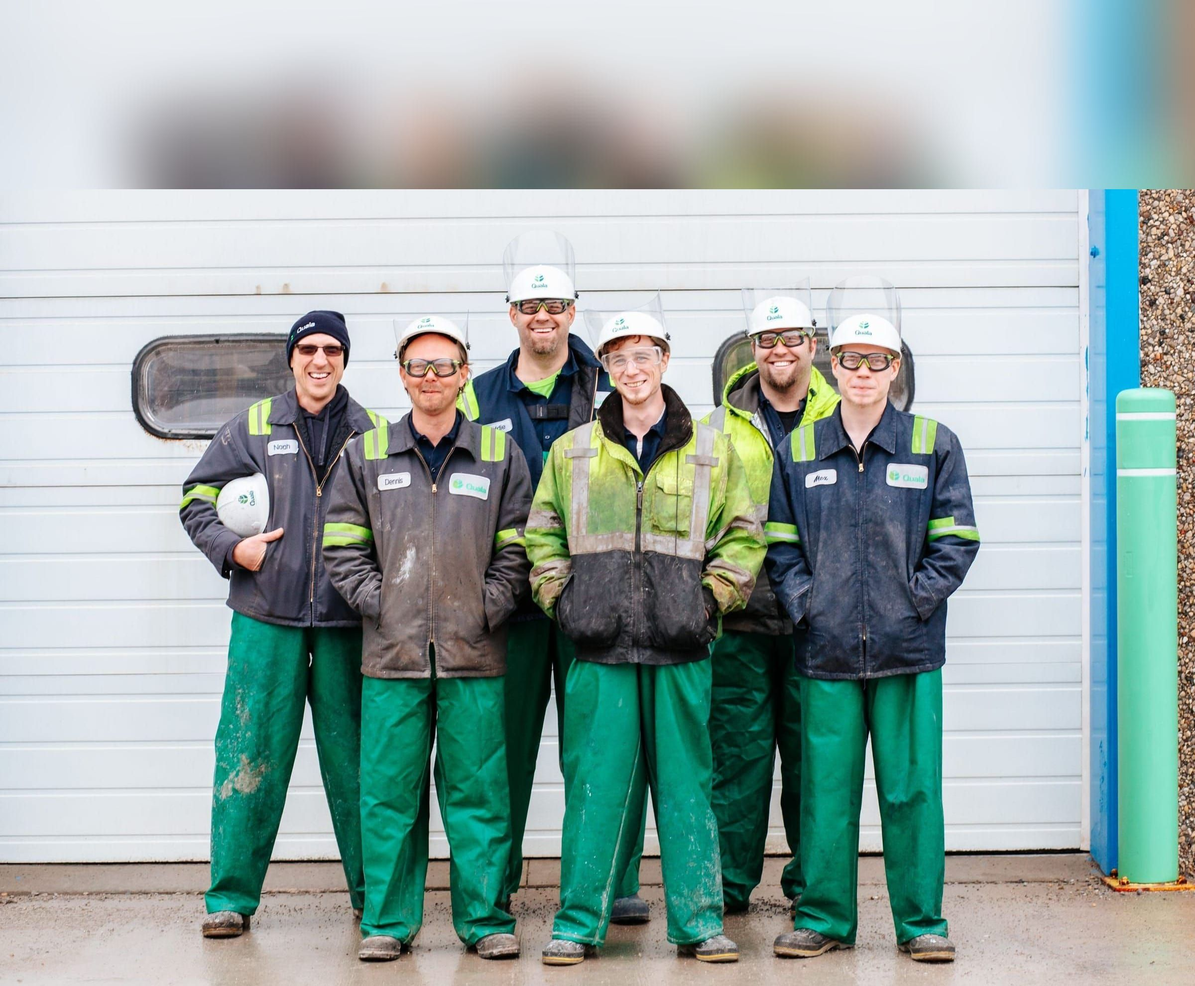
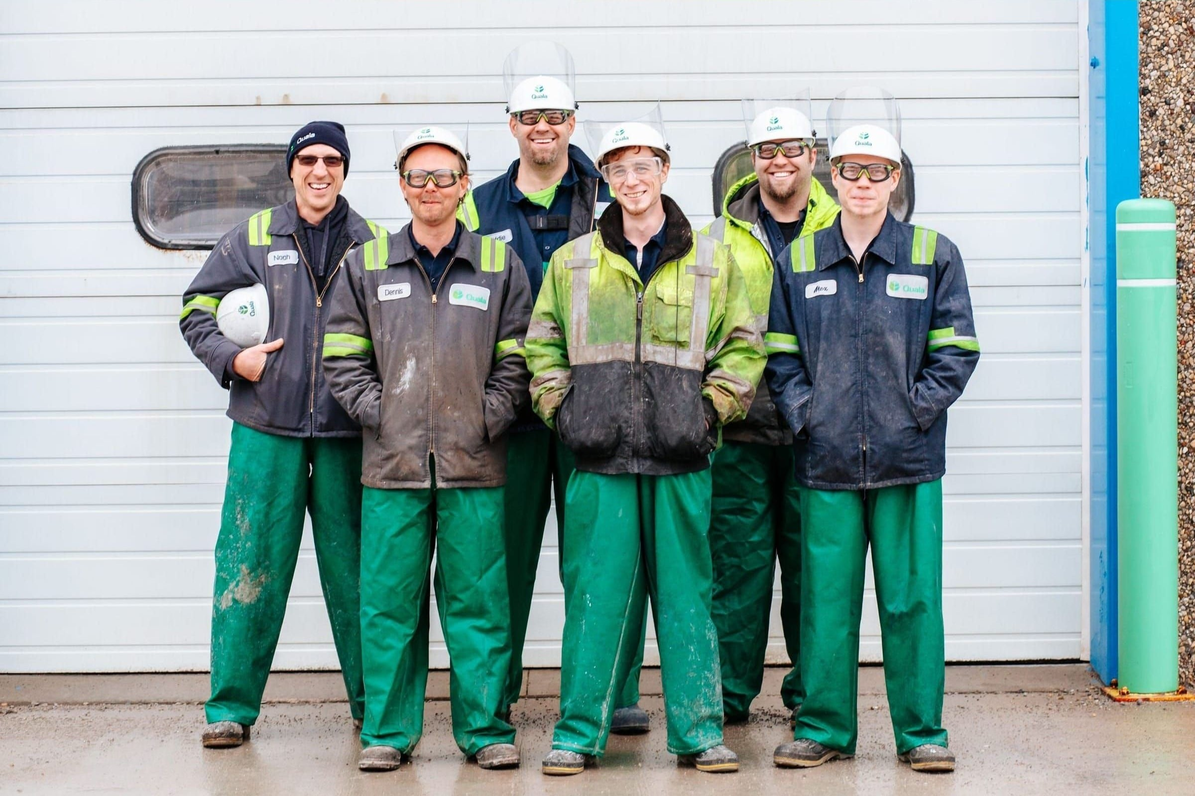
fix: imagem na hero balanceada e animação em como funciona

diff --git a/src/app/globals.css b/src/app/globals.css
@@ -129,3 +129,60 @@ body {
     animation: none;
   }
 }
+
+/* "Como funciona" (ver ComoFunciona.tsx): brilho contínuo que percorre os
+   números 01-04 em sequência (1, 2, 3, 4, volta pro 1...), dando ênfase a
+   uma etapa por vez, sem JS. Os 4 cards compartilham o mesmo keyframe de 3s
+   (o brilho de cada um acontece nos primeiros ~8% do ciclo) e cada
+   ":nth-child" só COMEÇA a tocar sua animação num instante posterior via
+   "animation-delay" positivo (0s, 0.75s, 1.5s, 2.25s — um quarto do ciclo
+   de cada vez). Importante usar delay POSITIVO aqui: um delay negativo faz
+   o elemento "pular" pra frente no próprio ciclo em vez de atrasar o
+   início, o que inverte a ordem depois da primeira volta (era o bug: a
+   sequência ia 1, 4, 3, 2 em vez de 1, 2, 3, 4). */
+@keyframes como-funciona-glow {
+  0%,
+  100% {
+    color: rgba(255, 255, 255, 0.25);
+    text-shadow: none;
+  }
+  8% {
+    color: rgba(255, 255, 255, 0.95);
+    text-shadow:
+      0 0 18px rgba(255, 255, 255, 0.45),
+      0 0 34px rgba(232, 98, 44, 0.5);
+  }
+  /* Apaga rápido logo depois do pico (8% -> 20%, ~0,36s de um ciclo de 3s),
+     em vez de ir esmaecendo devagar até quase o fim do ciclo. */
+  20% {
+    color: rgba(255, 255, 255, 0.25);
+    text-shadow: none;
+  }
+}
+
+.como-funciona-number {
+  animation: como-funciona-glow 3s ease-in-out infinite;
+}
+
+.como-funciona-grid > :nth-child(1) .como-funciona-number {
+  animation-delay: 0s;
+}
+
+.como-funciona-grid > :nth-child(2) .como-funciona-number {
+  animation-delay: 0.75s;
+}
+
+.como-funciona-grid > :nth-child(3) .como-funciona-number {
+  animation-delay: 1.5s;
+}
+
+.como-funciona-grid > :nth-child(4) .como-funciona-number {
+  animation-delay: 2.25s;
+}
+
+@media (prefers-reduced-motion: reduce) {
+  .como-funciona-number {
+    animation: none;
+    color: rgba(255, 255, 255, 0.25);
+  }
+}

diff --git a/src/components/screens/home/Hero.tsx b/src/components/screens/home/Hero.tsx
@@ -14,11 +14,13 @@ export function Hero() {
       className="relative flex min-h-screen items-end overflow-hidden pt-28 pb-16"
     >
       {/* Foto de banco de imagens (Pexels) usada como referência visual até o
-          cliente enviar fotos reais da equipe/fábrica. A própria imagem tem
-          uma faixa desfocada extra no topo (ver script de otimização) para
-          que o rosto das pessoas nunca fique atrás do menu flutuante —
-          "object-top" garante que essa faixa fique sempre colada ao topo,
-          em qualquer altura de tela. */}
+          cliente enviar fotos reais da equipe/fábrica. A própria foto já tem
+          espaço vazio (parede) acima da equipe, então "object-top" ancora
+          esse espaço no topo — sem precisar esticar/desfocar a imagem — e
+          mantém o rosto das pessoas longe do menu flutuante em qualquer
+          proporção de tela. (Chegamos a testar uma faixa desfocada extra
+          colada no topo do arquivo, mas em telas largas/baixas ela distorcia
+          a proporção da foto e acabava dominando boa parte da hero — revertido.) */}
       <Image
         src="/images/hero-equipe-uniformizada.jpg"
         alt="Equipe uniformizada em ambiente profissional"
@@ -27,8 +29,7 @@ export function Hero() {
         sizes="100vw"
         className="object-cover object-top"
       />
-      {/* Esmaece a costura entre a faixa desfocada e a foto nítida, e ajuda
-          o menu flutuante a manter contraste sobre a imagem. */}
+      {/* Leve escurecida no topo pra dar mais contraste ao menu flutuante. */}
       <div className="absolute inset-x-0 top-0 h-40 bg-gradient-to-b from-black/35 to-transparent" />
       <div className="absolute inset-0 bg-linear-to-t from-black/80 via-black/45 to-black/20" />
 

diff --git a/src/components/screens/home/Segmentos.tsx b/src/components/screens/home/Segmentos.tsx
@@ -34,7 +34,7 @@ export function Segmentos() {
     <section id="segmentos" className="bg-mm-cream py-20">
       <Container>
         <div className="grid gap-10 lg:grid-cols-2 lg:items-stretch lg:gap-16">
-          <div className="flex flex-col gap-8">
+          <div className="flex flex-col gap-8 lg:order-2">
             <div className="max-w-lg">
               <Text as="h2" size="3xl" weight="bold" color="primary" className="leading-tight">
                 Atendemos empresas de diferentes segmentos.
@@ -74,7 +74,7 @@ export function Segmentos() {
             type="button"
             onClick={() => setIsModalOpen(true)}
             aria-label={`Ampliar exemplo de uniforme para ${activeSegmento.label}`}
-            className="group relative cursor-zoom-in text-left lg:h-full"
+            className="group relative cursor-zoom-in text-left lg:order-1 lg:h-full"
           >
             {/* Mobile: mantém a proporção 16:9 (não há coluna de texto para
                 "casar" em altura). Desktop (lg+): abandona a proporção fixa e

diff --git a/src/components/screens/home/ComoFunciona.tsx b/src/components/screens/home/ComoFunciona.tsx
@@ -22,14 +22,17 @@ export function ComoFunciona() {
           </Text>
         </div>
 
-        <div className="mt-14 grid gap-8 sm:grid-cols-2 lg:grid-cols-4">
+        <div className="como-funciona-grid mt-16 grid gap-10 sm:grid-cols-2 lg:grid-cols-4">
           {passosComoFunciona.map((passo) => (
-            <div key={passo.number} className="flex flex-col gap-3">
+            <div key={passo.number} className="flex flex-col gap-4">
+              {/* Brilho contínuo (ver globals.css) que destaca uma etapa por
+                  vez, em sequência, num loop de 8s — a ordem de cada card no
+                  grid decide sua vez via ":nth-child" no CSS. */}
               <Text
                 as="span"
-                size="4xl"
+                size="5xl"
                 weight="bold"
-                className="text-white/25"
+                className="como-funciona-number text-white/25"
               >
                 {passo.number}
               </Text>
